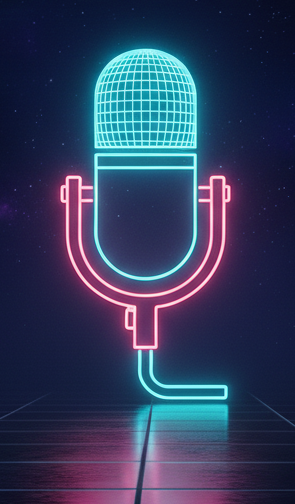
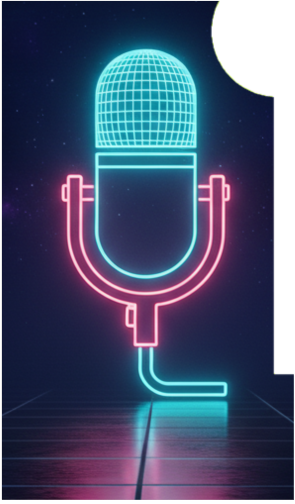
feat(home-ui): ajout de l'interface d'accueil

diff --git a/NMH/NMH/wwwroot/css/home.css b/NMH/NMH/wwwroot/css/home.css
@@ -6,19 +6,19 @@
     position: fixed;
     top: 0;
     height: 100vh;
-    width: 160px;
+    width: 200px; /* largeur de la bande */
     overflow: hidden;
     z-index: 10;
 }
 
-/* bande gauche */
+/* bande gauche avec espace de 20px depuis le bord */
 .poster-band.left {
-    left: 10px;
+    left: 12px;
 }
 
-/* bande droite */
+/* bande droite avec espace de 20px depuis le bord */
 .poster-band.right {
-    right: 10px;
+    right: 12px;
 }
 
 /* conteneur animé */
@@ -30,9 +30,12 @@
     animation: scrollPosters 90s linear infinite;
 }
 
-/* images */
+/* images dans les bandes */
 .poster-track img {
-    width: 100%;
+    width: 100%;      /* prend toute la largeur de la bande */
+    max-width: 200px; /* jamais plus large que la bande */
+    height: auto;
+    object-fit: cover; /* garde proportions */
     border-radius: 6px;
     opacity: 0.85;
     transition: transform 0.3s ease, opacity 0.3s ease;
@@ -45,21 +48,18 @@
 
 /* animation verticale */
 @keyframes scrollPosters {
-
     0% {
         transform: translateY(0);
     }
-
     100% {
         transform: translateY(-50%);
     }
-
 }
 
 /* ===== FOND GLOBAL ===== */
 .home-main {
     min-height: 100vh;
-    padding: 3rem 160px;
+    padding: 3rem 220px; /* largeur bande (200px) + espace (20px) */
     text-align: center;
     background: #0F0F2F;
 
@@ -232,4 +232,94 @@
     display: flex;
     flex-direction: column;
     gap: 1.5rem;
+}
+
+.feature-icon {
+    width: 70px;        /* taille souhaitée */
+    height: 70px;       /* force un cadre carré */
+    object-fit: contain; /* évite la déformation */
+
+    display: block;
+    margin: 0 auto 1rem auto;
+}
+
+/* effet au hover */
+.feature-card:hover .feature-icon {
+    transform: scale(1.1);
+}
+
+.feature-card {
+    text-align: center;
+}
+
+.feature-card p {
+    text-align: justify; /* tu gardes ton texte justifié */
+}
+
+.feature-icon {
+    filter: drop-shadow(0 0 8px rgba(82,197,255,0.5));
+}
+
+/* Carte Bibliothèque – image centrée verticalement et espace réduit */
+.library-card {
+    display: flex;
+    align-items: center; /* centre verticalement l'image par rapport au texte */
+    gap: 24px; /* espace entre image et texte */
+    margin-bottom: 16px; /* réduit l'espace sous la carte */
+}
+
+.library-icon {
+    width: 128px;   /* 2x la taille normale si les autres icônes font 64px */
+    height: auto;
+}
+
+.library-text {
+    flex: 1;
+}
+
+.library-text h2 {
+    margin-bottom: 8px; /* réduit l'espace entre le titre et le texte */
+}
+
+.library-text p {
+    margin-bottom: 0; /* supprime l'espace par défaut sous le paragraphe */
+}
+
+/* Remonter le séparateur après la carte Bibliothèque */
+.home-features-single + .section-divider {
+    margin-top: 10px; /* réduit l’espace au-dessus du séparateur (ajuste selon besoin) */
+}
+
+/* ============================================================ */
+/* ----------- Bouton connexion FINAL (indépendant) ------------ */
+/* ============================================================ */
+
+.login-button-final {
+    display: flex;
+    justify-content: center;
+    margin-top: 25px;
+}
+
+.login-button-final a {
+    display: inline-block; /* pour que l'image reste dans le flux */
+}
+
+.login-button-final img {
+    height: 55px;
+    width: auto;
+    cursor: pointer;
+    border-radius: 8px;
+
+    transition:
+        opacity 0.25s ease,
+        transform 0.25s ease,
+        filter 0.25s ease,
+        content 0.25s ease; /* pour le changement d'image */
+}
+
+/* 🔥 Effet hover : changement d'image + scale + drop-shadow */
+.login-button-final img:hover {
+    content: url('/images/co002.png'); /* 🔹 image au hover */
+    transform: scale(1.08);
+    filter: drop-shadow(0 0 6px #52C5FF) drop-shadow(0 0 12px #52C5FF);
 }

diff --git a/NMH/NMH/wwwroot/js/site.js b/NMH/NMH/wwwroot/js/site.js
@@ -11,20 +11,34 @@ function scrollCarousel(element, offset) {
 // ----------------- Header Netflix scroll effect ------------
 // ============================================================
 window.headerScrollEffect = () => {
-
     const header = document.querySelector(".main-header");
-
     if (!header) return;
 
     window.addEventListener("scroll", () => {
-
         if (window.scrollY > 50) {
             header.classList.add("scrolled");
-        } 
-        else {
+        } else {
             header.classList.remove("scrolled");
         }
+    });
+};
 
+// ============================================================
+// --------- Hover bouton connexion header -------------------
+// ============================================================
+window.initHeaderLoginHover = () => {
+    const loginImg = document.querySelector('.login-button img');
+    if (!loginImg) return;
+
+    loginImg.addEventListener('mouseenter', () => {
+        loginImg.src = '/images/co002.png';
+        loginImg.style.transform = 'scale(1.08)';
+        loginImg.style.filter = 'drop-shadow(0 0 6px #52C5FF) drop-shadow(0 0 12px #52C5FF)';
     });
 
+    loginImg.addEventListener('mouseleave', () => {
+        loginImg.src = '/images/co001.png';
+        loginImg.style.transform = 'scale(1)';
+        loginImg.style.filter = 'drop-shadow(0 0 0 transparent)';
+    });
 };

diff --git a/NMH/NMH/wwwroot/css/site.css b/NMH/NMH/wwwroot/css/site.css
@@ -142,16 +142,12 @@
     height: 55px;
     width: auto;
     cursor: pointer;
-    border-radius: 8px; /* bords légèrement arrondis */
-
-    transition:
-        opacity 0.25s ease,
-        transform 0.25s ease,
-        filter 0.25s ease;
+    border-radius: 8px; 
+    transition: transform 0.25s ease, filter 0.25s ease;
 }
 
-.login-button:hover {
-    background-image: url('/images/co002.png'); /* image au survol */
+/* hover pour zoom + glow (l'image sera changée via JS) */
+.login-button img:hover {
     transform: scale(1.08);
     filter: drop-shadow(0 0 6px #52C5FF) drop-shadow(0 0 12px #52C5FF);
 }
